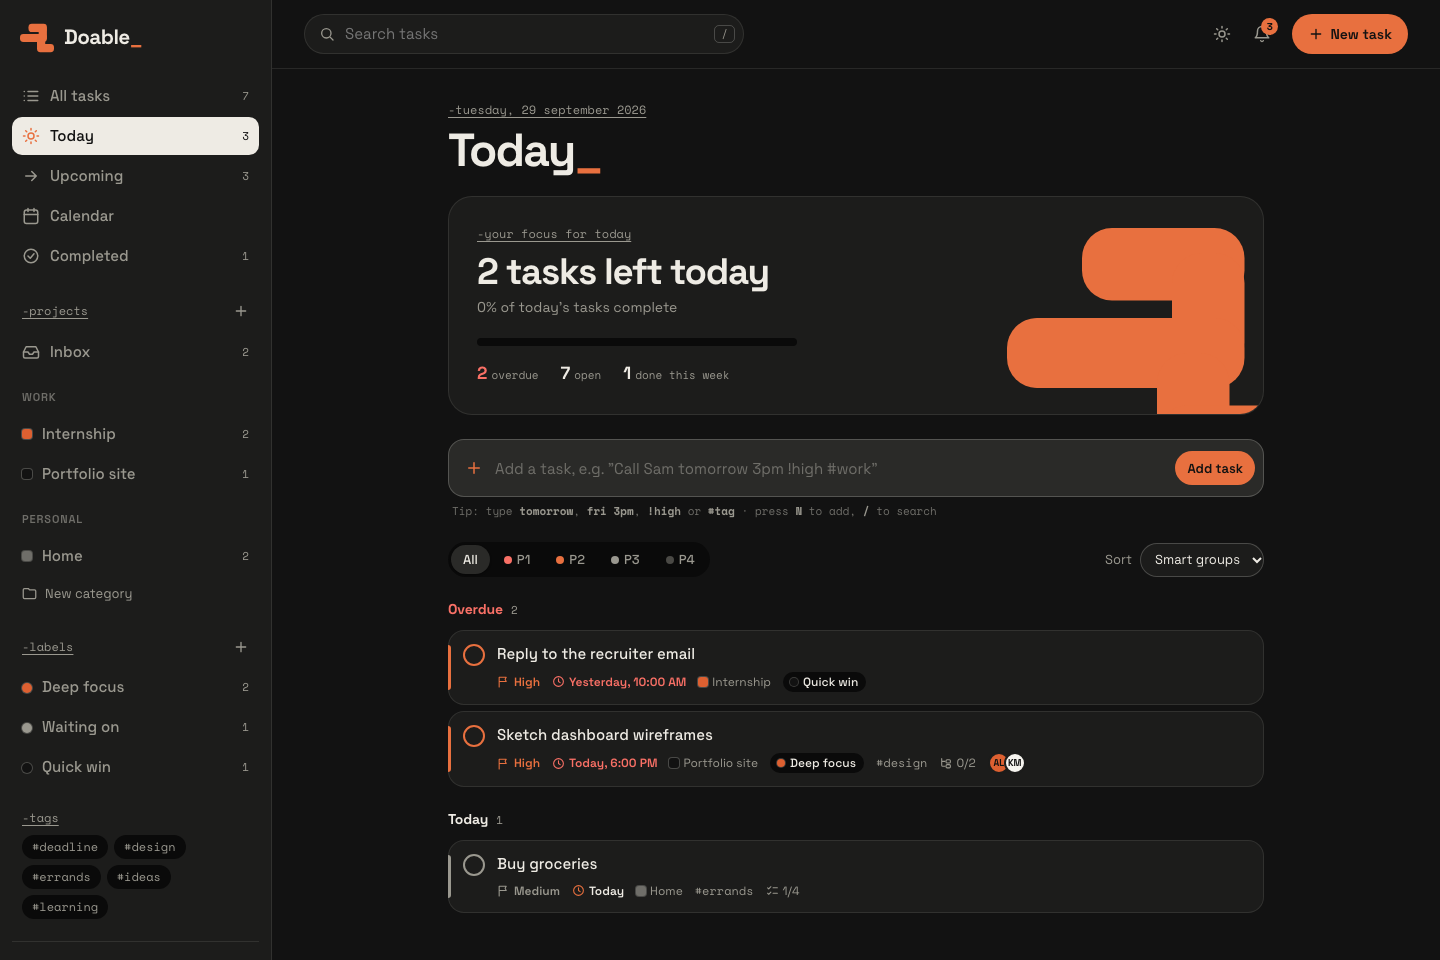
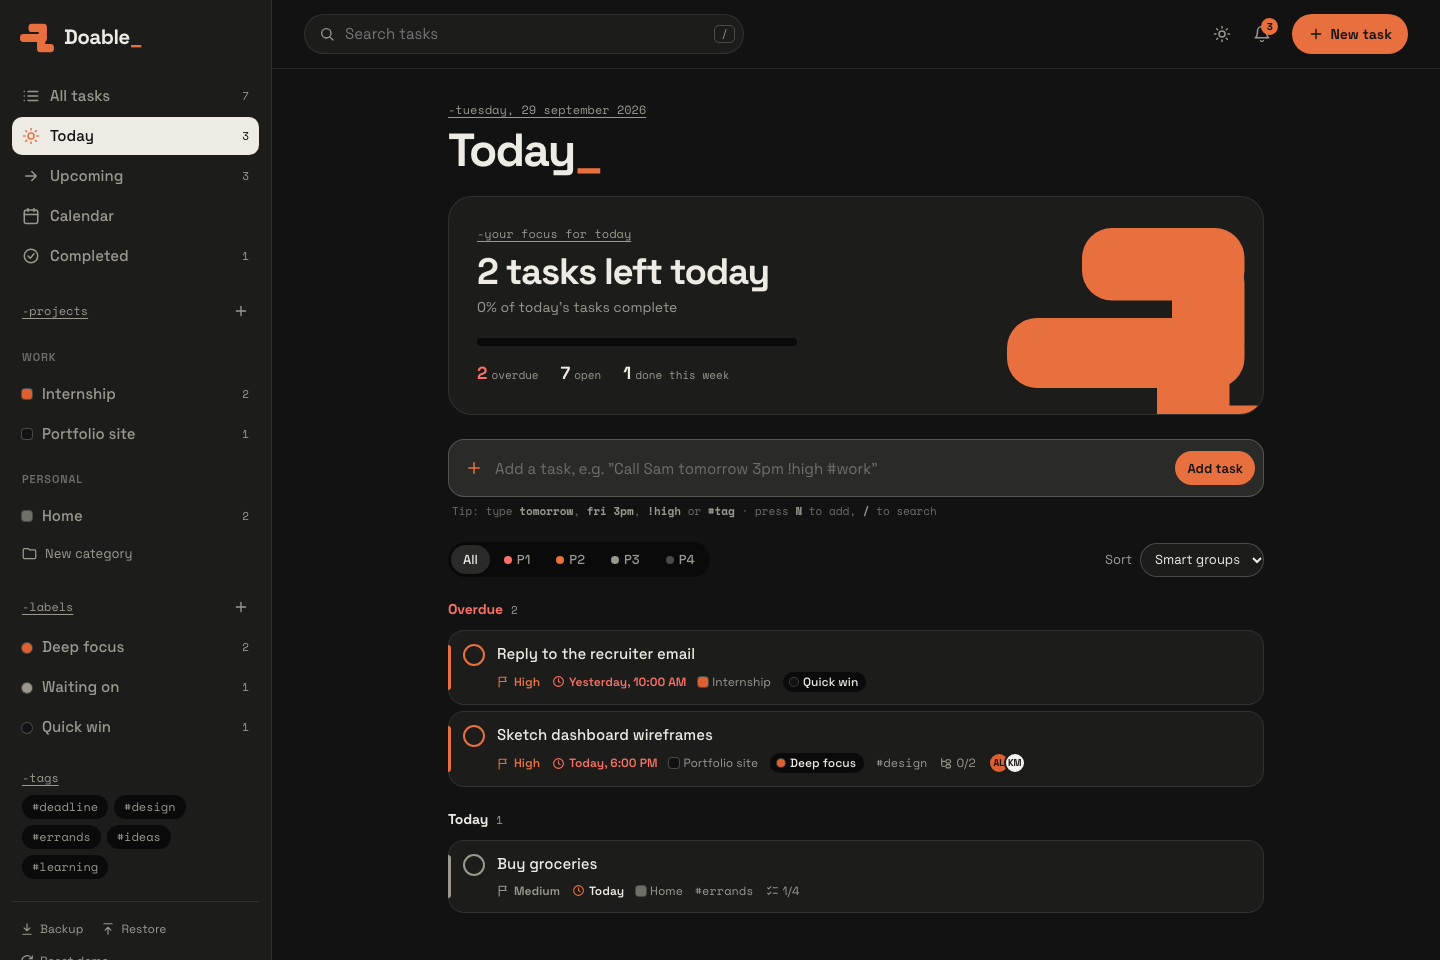
Remove Inbox from the sidebar
Tasks without a project still appear in All tasks, Today, Upcoming and
the calendar. The project picker now says "No project".

diff --git a/js/views.js b/js/views.js
@@ -33,16 +33,15 @@ const Views = (() => {
     const [kind, value] = ui.view.split(/:(.*)/s);
 
     if (kind === 'project') {
-      const isInbox = value === 'inbox';
-      const project = !isInbox && projectById(state, value);
-      if (isInbox || project) {
-        const category = project && state.categories.find((c) => c.id === project.categoryId);
-        const inProject = (t) => (isInbox ? !t.projectId : t.projectId === value);
+      const project = projectById(state, value);
+      if (project) {
+        const category = state.categories.find((c) => c.id === project.categoryId);
+        const inProject = (t) => t.projectId === value;
         return {
-          kind, title: isInbox ? 'Inbox' : project.name,
-          eyebrow: isInbox ? '-tasks without a project' : `-project${category ? ` · ${category.name.toLowerCase()}` : ''}`,
+          kind, title: project.name,
+          eyebrow: `-project${category ? ` · ${category.name.toLowerCase()}` : ''}`,
           tasks: open.filter(inProject), completed: done.filter(inProject), mode: 'buckets',
-          empty: isInbox ? 'Tasks you add without a project land here.' : 'Add the first task for this project above.',
+          empty: 'Add the first task for this project above.',
         };
       }
     }
@@ -206,7 +205,6 @@ const Views = (() => {
             <span class="mono-tag">-projects</span>
             <button class="icon-btn sm" data-action="open-modal" data-type="project" aria-label="New project">${icon('plus', 16)}</button>
           </div>
-          ${navItem('project:inbox', icon('inbox'), 'Inbox', count((t) => !t.projectId))}
           ${loose.map(projectRow).join('')}
           ${categories}
           <button class="side-add" data-action="open-modal" data-type="category">${icon('folder', 15)} New category</button>
@@ -561,7 +559,7 @@ const Views = (() => {
       : '<span class="status-pill">No due date</span>';
 
     const projectOptions = [
-      `<option value="">Inbox</option>`,
+      `<option value="">No project</option>`,
       ...state.projects.filter((p) => !state.categories.some((c) => c.id === p.categoryId))
         .map((p) => `<option value="${p.id}"${p.id === task.projectId ? ' selected' : ''}>${e(p.name)}</option>`),
       ...state.categories.map((c) => {

diff --git a/js/app.js b/js/app.js
@@ -166,7 +166,7 @@
   // Tasks added from a project, label, tag, Today or a calendar day inherit that context.
   function viewDefaults() {
     const [kind, value] = ui.view.split(/:(.*)/s);
-    if (kind === 'project') return { projectId: value === 'inbox' ? null : value };
+    if (kind === 'project') return { projectId: value };
     if (kind === 'label') return { labelIds: [value] };
     if (kind === 'tag') return { tags: [value] };
     if (kind === 'today') return { dueDate: Utils.todayKey() };
@@ -413,7 +413,7 @@
     'modal-delete'() {
       const { type, id } = ui.modal;
       const message = {
-        project: 'Delete this project? Its tasks will move to the Inbox.',
+        project: 'Delete this project? Its tasks will be kept, with no project.',
         label: 'Delete this label? It will be removed from every task.',
         category: 'Delete this category? Its projects will be kept.',
       }[type];

diff --git a/js/icons.js b/js/icons.js
@@ -21,7 +21,6 @@ const Icons = (() => {
     tag: '<path d="M20.6 13.4 13.4 20.6a2 2 0 0 1-2.8 0L3 13V3h10l7.6 7.6a2 2 0 0 1 0 2.8Z"/><circle cx="7.5" cy="7.5" r="1.5"/>',
     hash: '<path d="M4 9h16M4 15h16M10 3 8 21M16 3l-2 18"/>',
     folder: '<path d="M4 20h16a2 2 0 0 0 2-2V8a2 2 0 0 0-2-2h-8l-2-2H4a2 2 0 0 0-2 2v12a2 2 0 0 0 2 2Z"/>',
-    inbox: '<path d="M22 12h-6l-2 3h-4l-2-3H2"/><path d="M5.5 5h13L22 12v6a2 2 0 0 1-2 2H4a2 2 0 0 1-2-2v-6Z"/>',
     list: '<path d="M8 6h13M8 12h13M8 18h13M3 6h.01M3 12h.01M3 18h.01"/>',
     forward: '<path d="M5 12h14M13 6l6 6-6 6"/>',
     'check-circle': '<circle cx="12" cy="12" r="9"/><path d="m8 12 3 3 5-6"/>',

diff --git a/js/store.js b/js/store.js
@@ -187,7 +187,7 @@ const Store = (() => {
     if (project) commit(() => Object.assign(project, patch));
   }
 
-  // Tasks in a deleted project move to the Inbox rather than being lost.
+  // Tasks in a deleted project are kept (with no project) rather than being lost.
   function deleteProject(id) {
     commit((s) => {
       s.projects = s.projects.filter((p) => p.id !== id);

diff --git a/README.md b/README.md
@@ -29,7 +29,7 @@ That's it. The app opens with demo data so you can explore right away. Use **Res
 | **Notes** | A notes field on every task, included in search and calendar exports. |
 | **Labels, tags & priorities** | Colour labels you manage in the sidebar, free-form `#tags`, and priorities, each with its own filtered view. |
 | **Sub-tasks & checklists** | Sub-tasks (each with an optional due date) and a separate checklist, both with progress bars. |
-| **Projects & categories** | Projects grouped under categories (e.g. *Work → Internship*). Deleting a project moves its tasks to the Inbox rather than losing them. |
+| **Projects & categories** | Projects grouped under categories (e.g. *Work → Internship*). Deleting a project keeps its tasks rather than losing them. |
 
 **Extras:** dark mode, a responsive mobile layout, search, five sort orders, keyboard shortcuts, backup/restore to a JSON file, and data saved automatically in the browser.
 
